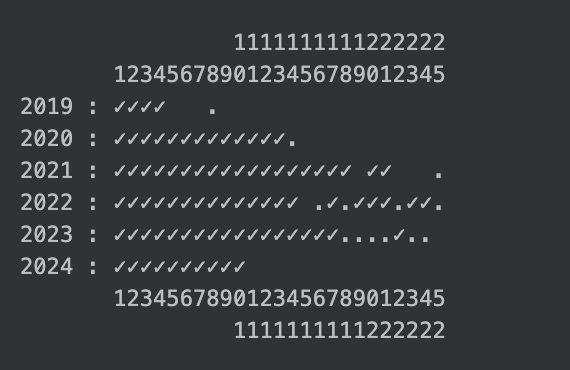
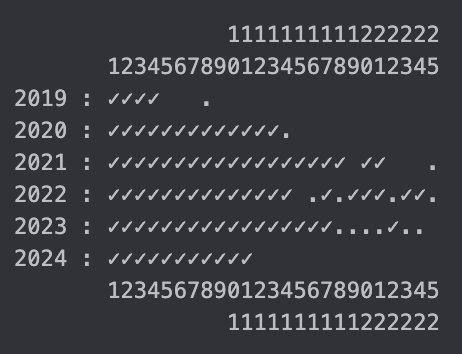
Day 2024 part 11 smoked.

diff --git a/src/main/java/com/simongarton/adventofcode/year2024/Year2024Day11.java b/src/main/java/com/simongarton/adventofcode/year2024/Year2024Day11.java
@@ -2,16 +2,18 @@ package com.simongarton.adventofcode.year2024;
 
 import com.simongarton.adventofcode.AdventOfCodeChallenge;
 
-import java.util.ArrayList;
-import java.util.Arrays;
-import java.util.List;
+import java.util.*;
 import java.util.stream.Collectors;
 
 public class Year2024Day11 extends AdventOfCodeChallenge {
 
+    private final Map<String, Long> memo = new HashMap<>();
+
+    private static final boolean DEBUG = false;
+
     @Override
     public String title() {
-        return "Day 11: Template code";
+        return "Day 11: Plutonian Pebbles";
     }
 
     @Override
@@ -26,10 +28,11 @@ public class Year2024Day11 extends AdventOfCodeChallenge {
         final int blinks = 25;
         for (int blink = 0; blink < blinks; blink++) {
             stones = this.dontBlink(stones);
-            System.out.println(blink + "/" + blinks + "=" + stones.size());
+            if (DEBUG) {
+                System.out.println(blink + "/" + blinks + "=" + stones.size());
+            }
         }
 
-        System.out.println(stones);
         return String.valueOf(stones.size());
     }
 
@@ -65,30 +68,61 @@ public class Year2024Day11 extends AdventOfCodeChallenge {
     @Override
     public String part2(final String[] input) {
 
-        final List<List<Long>> stoneLists = new ArrayList<>();
+        // my first idea was to break it up and do one number at a time
+        // but that ran into problems about 45 stones in - like the full list.
+
+        // I am now thinking I need to memoize it somehow.  Instead of a Long,
+        // I need to store a structure that is a Long, a position, and a total for what
+        // it would turn into
+
+        // So in this list ..
+
+        /*
+
+        0:[1] (1)
+        1:[2024] (1)
+        2:[20, 24] (2)
+        3:[2, 0, 2, 4] (4)
+        4:[4048, 1, 4048, 8096] (4)
+        5:[40, 48, 2024, 40, 48, 80, 96] (7)
+
+         */
+
+        // I can tell that a 2 at level 3 will turn into 4048 at 4, and a pair of 40 and 48 at 5
+        // and a 0 turns into a 2024 and so on
+
+        // but I need to start from the bottom.
+        // basically my key needs to be levelX-ValueY and my value should be the size of the list that would result from it.
+        // I have to start top down ... but we'll do it recursively and memoize it for speed.
 
         final List<Long> stones = this.parseStones(input[0]);
-        for (final Long stone : stones) {
-            List<Long> shortList = List.of(stone);
-            final int blinks = 75;
-            for (int blink = 0; blink < blinks; blink++) {
-                shortList = this.dontBlink(shortList);
-                System.out.println(blink + "/" + blinks + "=" + shortList.size());
-            }
-            stoneLists.add(shortList);
-        }
         long total = 0;
-        for (final List<Long> shortList : stoneLists) {
-            total += shortList.size();
+        final int blinks = 75;
+        for (final Long stone : stones) {
+            total += this.recursiveDepth(stone, 0, blinks);
         }
+
         return String.valueOf(total);
     }
 
-    static class StoneState {
+    private long recursiveDepth(final Long stone, final int level, final int blinks) {
 
-        long value;
-        StoneState nextState1;
-        StoneState nextState2;
+        final String key = level + ":" + stone;
+        if (this.memo.containsKey(key)) {
+            return this.memo.get(key);
+        }
+
+        if (level == blinks) {
+            this.memo.put(key, 1L);
+            return 1L;
+        }
+
+        final List<Long> nextLevel = this.dontBlink(List.of(stone));
+        long total = 0;
+        for (final Long next : nextLevel) {
+            total += this.recursiveDepth(next, level + 1, blinks);
+        }
+        this.memo.put(key, total);
+        return total;
     }
-
 }

diff --git a/src/main/java/com/simongarton/adventofcode/AdventOfCode.java b/src/main/java/com/simongarton/adventofcode/AdventOfCode.java
@@ -8,7 +8,8 @@ import com.simongarton.adventofcode.year2020.*;
 import com.simongarton.adventofcode.year2021.*;
 import com.simongarton.adventofcode.year2022.*;
 import com.simongarton.adventofcode.year2023.*;
-import com.simongarton.adventofcode.year2024.*;
+import com.simongarton.adventofcode.year2024.Year2024Day10;
+import com.simongarton.adventofcode.year2024.Year2024Day11;
 
 import java.util.ArrayList;
 import java.util.HashMap;
@@ -183,16 +184,17 @@ public class AdventOfCode {
     }
 
     private void load2024() {
-        this.challenges.add(new Year2024Day1());
-        this.challenges.add(new Year2024Day2());
-        this.challenges.add(new Year2024Day3());
-        this.challenges.add(new Year2024Day4());
-        this.challenges.add(new Year2024Day5());
-        this.challenges.add(new Year2024Day6());
-        this.challenges.add(new Year2024Day7());
-        this.challenges.add(new Year2024Day8());
-        this.challenges.add(new Year2024Day9());
+//        this.challenges.add(new Year2024Day1());
+//        this.challenges.add(new Year2024Day2());
+//        this.challenges.add(new Year2024Day3());
+//        this.challenges.add(new Year2024Day4());
+//        this.challenges.add(new Year2024Day5());
+//        this.challenges.add(new Year2024Day6());
+//        this.challenges.add(new Year2024Day7());
+//        this.challenges.add(new Year2024Day8());
+//        this.challenges.add(new Year2024Day9());
         this.challenges.add(new Year2024Day10());
+        this.challenges.add(new Year2024Day11());
     }
 
     public AdventOfCode() {

diff --git a/src/main/java/com/simongarton/adventofcode/Sample.java b/src/main/java/com/simongarton/adventofcode/Sample.java
@@ -11,7 +11,7 @@ public class Sample {
     public static void main(final String[] args) throws IOException {
 
         // which part to do with sample ?
-        final boolean part1 = true;
+        final boolean part1 = false;
 
         final Path path = Paths.get(String.format("src/main/resources/2024/2024-%s-sample.txt", CurrentChallenge.DAY));
         if (part1) {

diff --git a/readme.md b/readme.md
@@ -9,6 +9,18 @@ on 1 Dec, and getting progressively harder - I rarely finish the last few days.
 
 ## 2024
 
+## Day 11: Plutonian pebbles.
+
+Loved it ! Take a list of numbers, and iterate with different rules : only 3 rules, but
+crucially one of them will split the number into two. Which means exponential growth.
+
+Part 1 was quick, part 2 I knew was going to be painful ... the first approach worked,
+the second approach - split the original list into individual numbers and take it from there -
+fell over a step later ... and that was the clue, recursion would be my friend. And of course,
+having done this challenge for 6 years now, if you recurse, you're probably going to need to short
+cut with memoisation. Wrote the code, ran it, and it finished instantly. Oh bugger, it crashed, I
+thought. Nope, right answer in <smug_mode> 85 seconds </smug_mode>.
+
 ## Day 10: Hoof it
 
 OK, now I'm happier again. A map and all about gradients : find paths from low to high, that are orthogonal and always

diff --git a/progress.md b/progress.md
@@ -5,6 +5,6 @@
     2021 : ✓✓✓✓✓✓✓✓✓✓✓✓✓✓✓✓✓✓ ✓✓   .
     2022 : ✓✓✓✓✓✓✓✓✓✓✓✓✓✓ .✓.✓✓✓.✓✓.
     2023 : ✓✓✓✓✓✓✓✓✓✓✓✓✓✓✓✓✓....✓..
-    2024 : ✓✓✓✓✓✓✓✓✓✓
+    2024 : ✓✓✓✓✓✓✓✓✓✓✓
            1234567890123456789012345
                     1111111111222222
